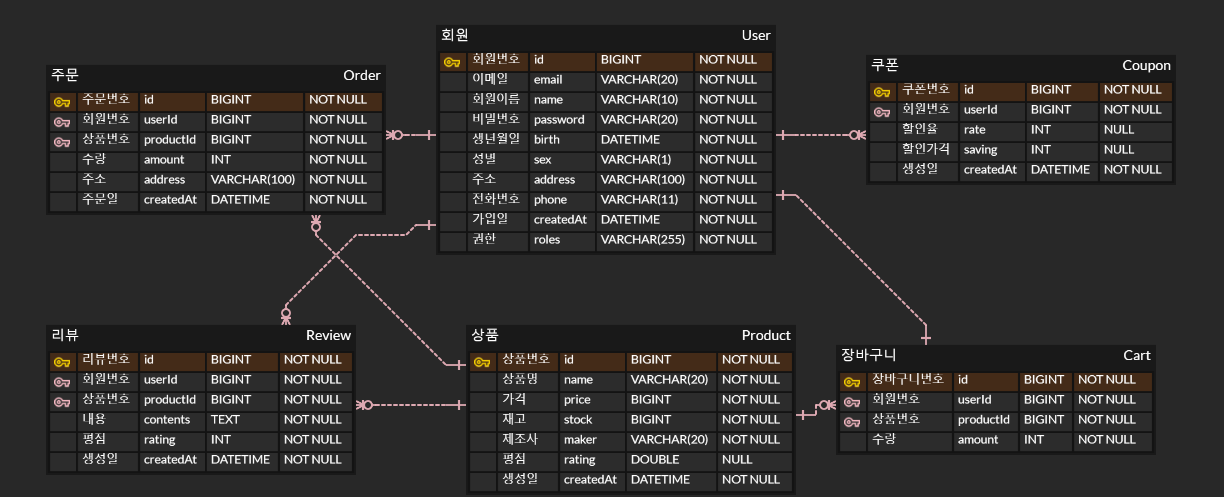
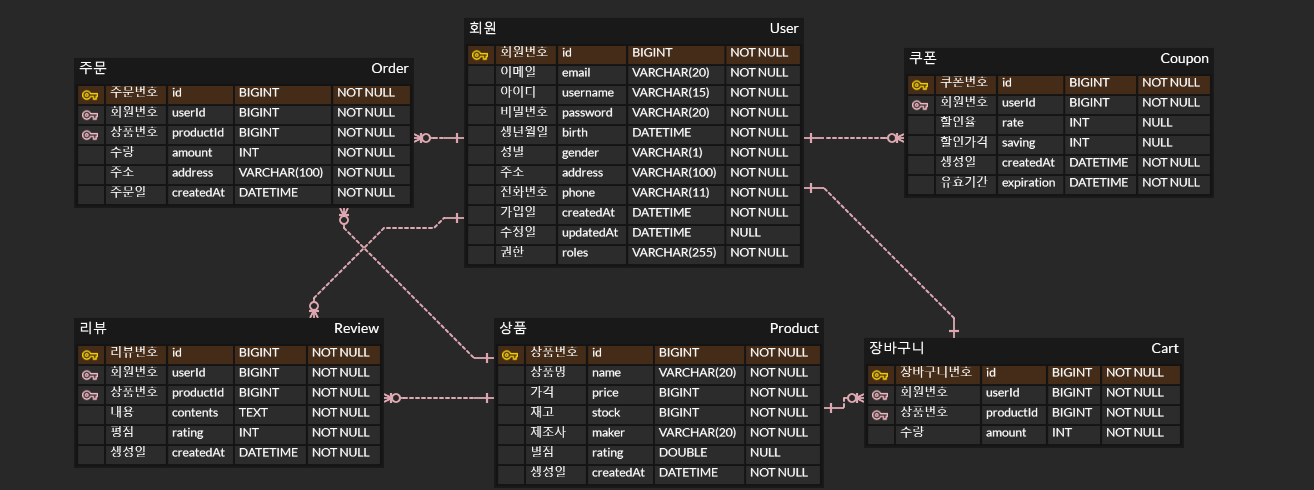
chore: README 및 erd 수정

diff --git a/README.md b/README.md
@@ -6,56 +6,73 @@
 ## 프로젝트 기능 및 설계
 ### 회원가입과 로그인
 - 회원가입
-    - 회원가입시 이메일, 이름, 비밀번호, 생년월일, 성별, 주소, 전화번호 정보가 필요하다.
-    - 이메일 인증이 완료되면 정상적으로 회원가입을 완료하고, 그렇지 않으면 보류한다.
-    - 회원가입시 이미 회원가입된 이메일과 이름으로 회원가입을 시도하면 에러를 발생한다.
+    - 회원가입시 이메일, 아이디, 비밀번호, 생년월일, 성별, 주소, 전화번호 정보가 필요
+    - 이메일 인증이 완료되면 정상적으로 회원가입을 완료하고, 그렇지 않으면 보류
+    - 회원가입시 이미 회원가입된 이메일과 아이디로 회원가입을 시도하면 에러를 발생
+    - 일반회원과 판매자회원은 회원가입시에 상품등록 권한 유무에 따라 구분되며, 다른 회원의 정보를 보거나 수정할 수 없음
+    - 이메일 전송은 SMTP Gmail 사용
 
 
 - 로그인
-    - 로그인시 회원가입한적 없는 이메일을 이용하여 로그인을 시도하면 에러가 발생한다.
-    - 로그인시 비밀번호가 일치하지 않는다면 에러가 발생한다.
-    - 회원가입시에 부여된 권한에 따라 JWT을 생성하여 응답한다.
+    - 로그인시 회원가입한적 없는 아이디를 이용하여 로그인을 시도하면 에러가 발생
+    - 로그인시 비밀번호가 일치하지 않는다면 에러가 발생
+    - 회원가입시에 부여된 권한에 따라 JWT을 생성하여 응답
+    - 로그인한 사용자는 이메일과 아이디를 제외한 회원정보들을 수정 가능
+
+
+- 아이디 및 비밀번호 찾기
+    - 이메일을 입력받고 해당 이메일로 가입한 회원이 있으면 이메일로 아이디 발송
+    - 아이디와 이메일을 입력받고 해당 이메일로 가입한 회원이 있으면 이메일로 임시 비밀번호를 발급
 
 
 - 관리자 로그인
-    - 관리자 로그인 시 상품을 등록, 삭제, 회원, 주문 관리를 할 수 있다.
+    - 관리자 로그인 시 상품을 등록, 삭제, 회원, 주문 관리를 할 수 있음 (모든 권한을 가짐)
 
 ### 주문 및 조회 기능
 - 상품명 검색
-    - 상품 검색은 로그인 여부와 관계없이 진행할 수 있다.
-    - 검색창에 입력한 단어로 시작되는 상품명을 가진 상품들을 자동완성한다.
+    - 상품 검색은 로그인 여부와 관계없이 가능
+    - 검색창에 입력한 단어로 시작되는 상품명을 가진 상품들을 자동완성 응답
+    - 상품은 낮은가격순, 높은가격순, 판매량순, 별점순, 최신순으로 조회 가능
 
 
 - 상품 상세 조회
-    - 상품 상세 조회 시 상품명, 가격, 리뷰, 현재 재고, 제조사등 상품에 대한 정보를 확인할 수 있다.
+    - 상품 상세 조회 시 상품명, 가격, 리뷰, 현재 재고, 제조사등 상품에 대한 정보를 확인 가능
 
 
 - 상품 주문
-    - 구매할 상품의 수량, 배송받을 주소를 입력해야 주문이 가능하다.
+    - 구매할 상품의 수량, 배송받을 주소를 입력해야 주문이 가능
+    - 쿠폰 적용은 선택사항
 
 ### 상품 장바구니 기능
 
 - 상품 담기
-    - 로그인 된 회원은 상품을 본인의 장바구니에 담을 수 있다.
+    - 로그인 된 회원은 상품을 본인의 장바구니에 담기 가능
 
 
 - 장바구니 목록
-    - 로그인 된 회원은 본인의 장바구니를 조회할 수 있다.
+    - 로그인 된 회원은 본인의 장바구니를 조회 가능
 
 
 - 장바구니 삭제
-    - 로그인 된 회원은 본인의 장바구니 목록을 삭제 할 수 있다.
+    - 로그인 된 회원은 본인의 장바구니 목록을 삭제 가능
 
 
 - 쿠폰
-    - 회원의 모든 쿠폰을 조회할 수 있다.
-    - 쿠폰은 한개의 상품에 적용 가능하며, 상품 가격은 0원 이하로 내려가지 않는다.
+    - 회원의 모든 쿠폰을 조회
+    - 쿠폰은 한개의 상품에 적용 가능, 상품 가격은 0원 이하로 내려갈 수 없음
+    - 모든 회원은 회원가입시 5000원 할인쿠폰을 발급
+
+### 상품 리뷰 기능
+
+- 리뷰 작성
+    - 주문을 완료한 고객은 30일 이내에 상품 이용 후기, 별점을 등록 가능
+    - 리뷰 등록을 완료하면 상품 판매자에게 알림
 
 ## ERD
 ![ERD](doc/img/erd.png)
 
 ## Trouble Shooting
-[go to the trouble shooting section](doc/TROUBLE_SHOOTING.md)
+[트러블 슈팅 히스토리](doc/TROUBLE_SHOOTING.md)
 
 ### Tech Stack
 <div align=center> 
